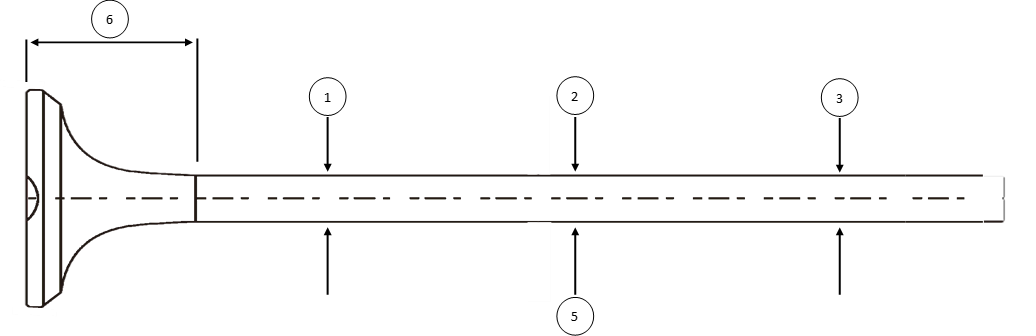
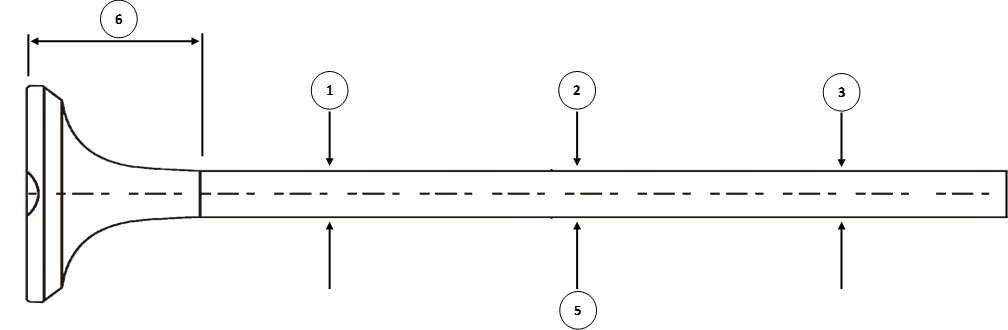
add img 15g-s-gs

Changed region(s): [[0.0, 0.2121, 1.0, 1.0], [0.0, 0.0, 0.2153, 0.4848]]

diff --git a/projeto-aprovacao-2026/projeto-aprovacao/src/components/MenuForm.jsx b/projeto-aprovacao-2026/projeto-aprovacao/src/components/MenuForm.jsx
@@ -212,13 +212,13 @@ const MenuForm = () => {
               <table>
                 <thead>
                   <tr>
-                    <th>ID</th>
+                    <th>Nº</th>
                     <th>Identificação</th>
                     <th>Tipo</th>
                     <th>PartNumber</th>
                     <th>Linha</th>
                     <th>Equipamento</th>
-                    <th>Registro</th>
+                    <th>Id Operador</th>
                     <th>Aguardando</th>
                     <th className="col-acoes">Ações</th>
                   </tr>

diff --git a/projeto-aprovacao-2026/projeto-aprovacao/src/configs/CaracteristicaEquipamento.js b/projeto-aprovacao-2026/projeto-aprovacao/src/configs/CaracteristicaEquipamento.js
@@ -166,7 +166,7 @@ export const caracteristicasEquipamento = {
     titulo: "FIP011 - 15GS - Retífica da haste semi acabada",
     operacao: "15GS",
     docRef: "011",
-    imagem: imgBorazon,
+    imagem: img15g,
     imagemAlt: "Desenho técnico de retífica da haste semi acabada - 15GS",
     campos: [
       {
